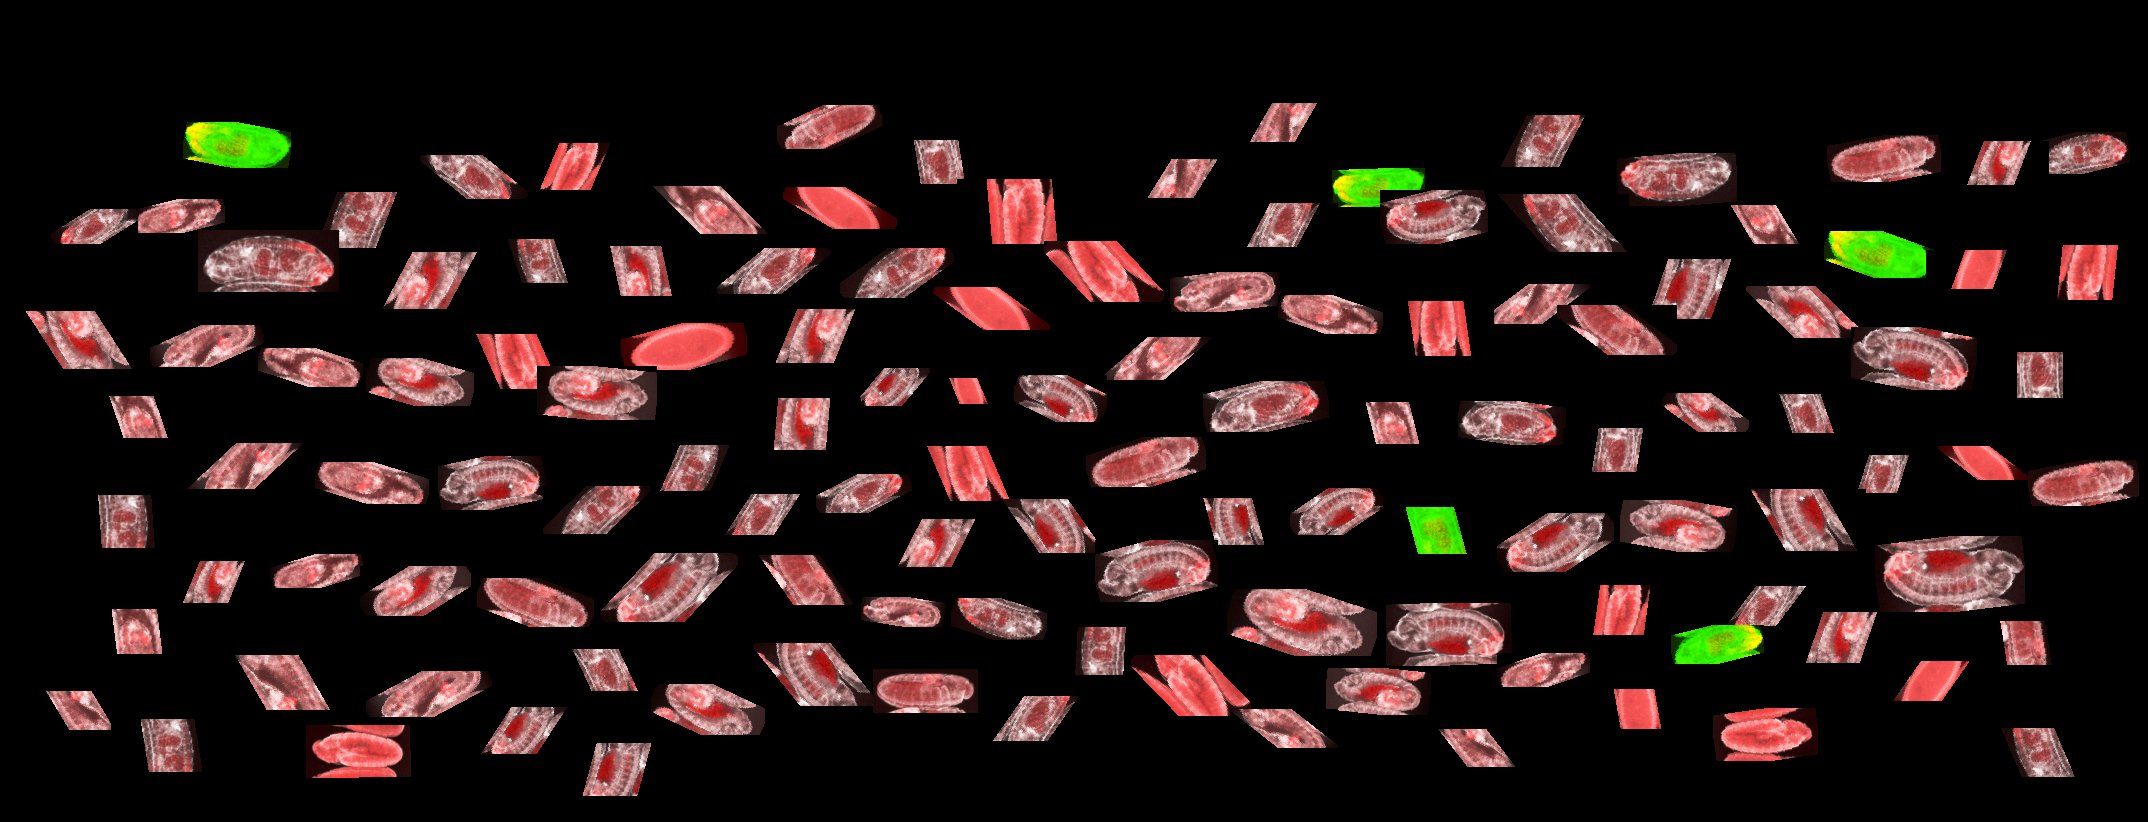
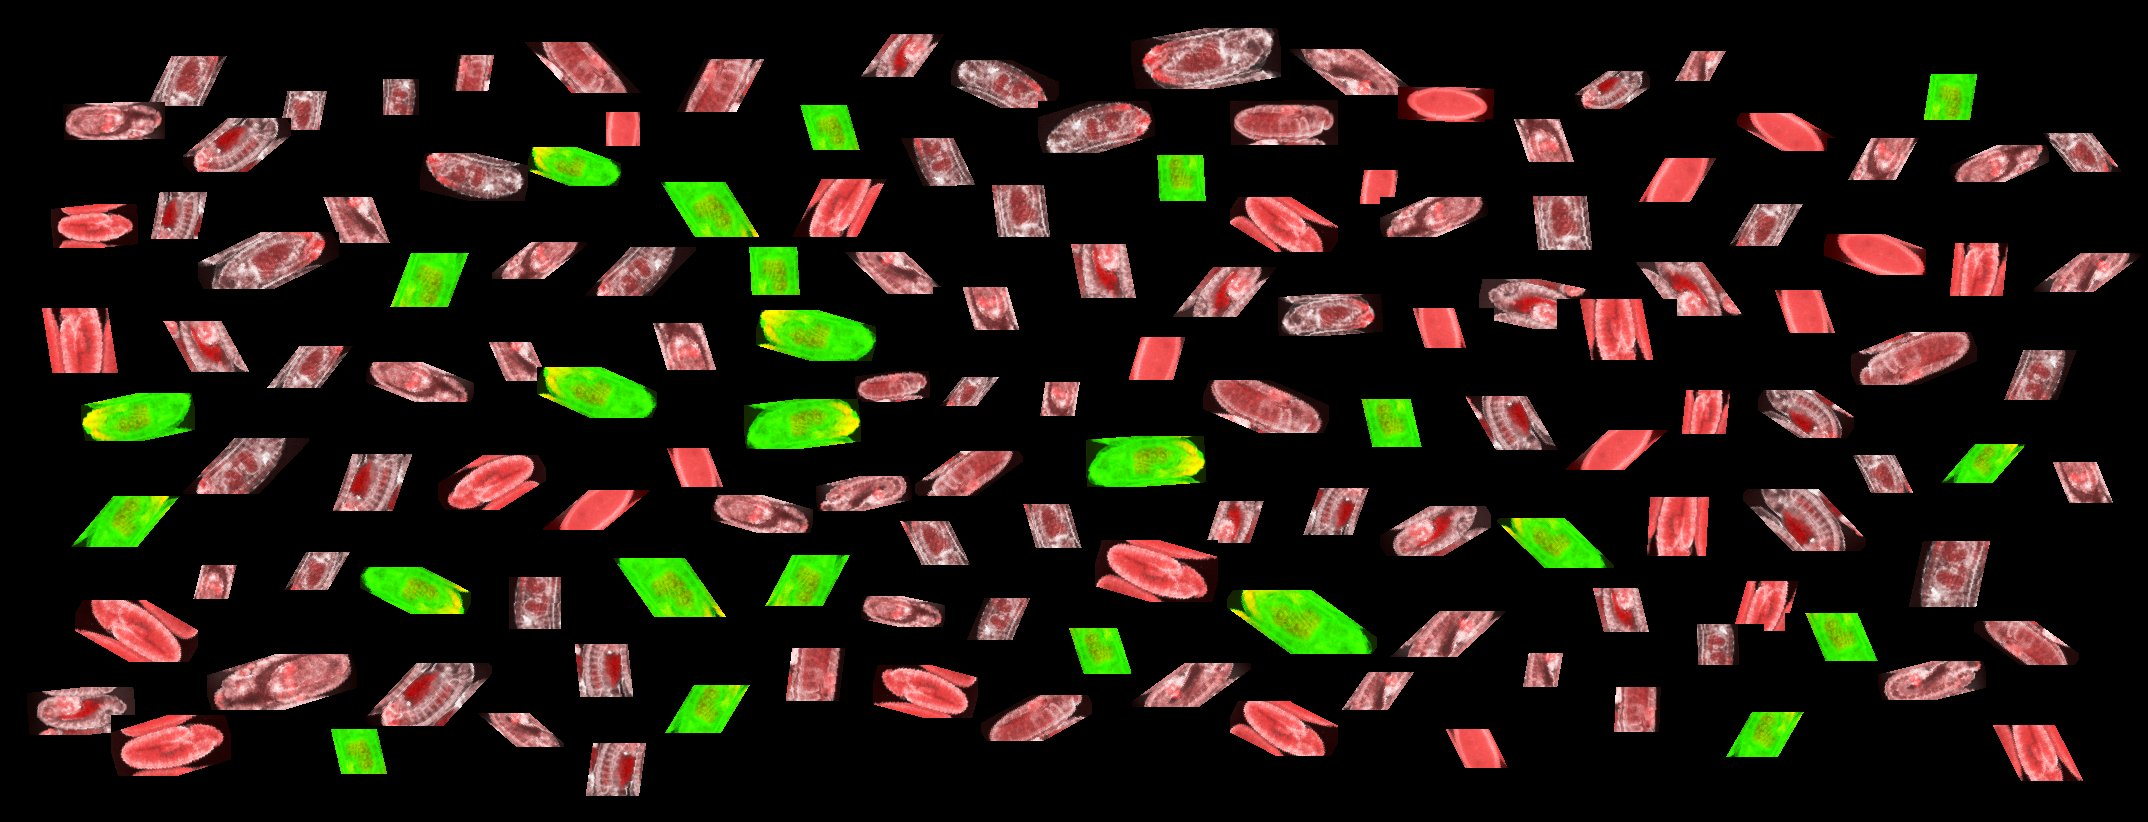
fixed_slide_and_table

diff --git a/embryo_map_001.html b/embryo_map_001.html
@@ -1,143 +1,143 @@
 File,x,y,rot
-stg12,855,38,115
-wt_stg16_ecad_AbdB_RGB_0.25,1131,26,343
-wt_stg13_ecad_AbdB_10x,1659,45,99
-wt_stg12_ecad_AbdB_10x,657,57,347
-wt_stg16_ecad_AbdB_RGB_0.25,522,41,102
-wt_stg12_ecad_AbdB_10x,1290,43,209
-wt_stg11_ecad_AbdB_10x,1575,74,159
-wt_stg11_ecad_AbdB_10x,951,61,136
-wt_stg15_ecad_AbdB_10x,429,56,54
-stg11,126,58,165
-wt_stg16_ecad_AbdB_10x,360,79,166
-wt_stg13_ecad_AbdB_10x,1398,81,21
-wt_stg10_ecad_AbdB_10x,1896,70,101
-stg11,1038,106,12
-stg11,255,93,100
-wt_stg16_ecad_AbdB_RGB_0.25,576,109,110
-wt_stg15_ecad_AbdB_10x,63,101,152
-stg12,1230,103,120
-wt_stg16_ecad_AbdB_RGB_0.25,1737,110,72
-wt_stg16_ecad_AbdB_RGB_0.25,183,122,11
-wt_stg11_ecad_AbdB_10x,777,105,155
-wt_stg16_ecad_AbdB_10x,1485,115,117
-wt_stg16_ecad_AbdB_10x,2034,132,166
-wt_stg15_ecad_AbdB_10x,885,140,261
-wt_stg12_ecad_AbdB_10x,1950,141,111
-stg12,1128,159,302
-wt_stg11_ecad_AbdB_10x,1827,135,349
-wt_stg10_ecad_AbdB_10x,528,143,293
-wt_stg15_ecad_AbdB_10x,420,155,219
-wt_stg16_ecad_AbdB_RGB_0.25,1332,168,358
-wt_stg16_ecad_AbdB_10x,1617,153,355
-stg11,132,199,346
-stg11,645,186,225
-wt_stg16_ecad_AbdB_10x,294,192,111
-wt_stg10_ecad_AbdB_10x,957,179,265
-stg5,783,187,31
-wt_stg13_ecad_AbdB_10x,1380,190,346
-wt_stg15_ecad_AbdB_10x,51,209,328
-wt_stg16_ecad_AbdB_10x,1497,194,48
-stg11,1713,205,59
-wt_stg15_ecad_AbdB_10x,1230,203,118
-wt_stg16_ecad_AbdB_10x,198,230,180
-wt_stg16_ecad_AbdB_10x,489,239,72
-wt_stg10_ecad_AbdB_10x,1044,241,47
-wt_stg12_ecad_AbdB_10x,585,246,258
-wt_stg16_ecad_AbdB_RGB_0.25,1824,231,20
-stg5,1926,250,290
-wt_stg15_ecad_AbdB_10x,717,248,141
-wt_stg10_ecad_AbdB_10x,2034,245,96
-wt_stg16_ecad_AbdB_10x,840,248,144
-wt_stg12_ecad_AbdB_10x,366,252,298
-wt_stg13_ecad_AbdB_10x,1629,259,289
-stg12,1170,272,173
-stg11,1278,295,19
-stg12,1479,284,323
-stg5,933,287,36
-wt_stg12_ecad_AbdB_10x,1746,286,224
-wt_stg11_ecad_AbdB_10x,1557,305,37
-wt_stg10_ecad_AbdB_10x,1386,301,82
-wt_stg12_ecad_AbdB_10x,15,311,57
-stg12,150,325,156
-stg5,621,323,345
-wt_stg12_ecad_AbdB_10x,756,309,112
-stg11,258,348,198
-wt_stg13_ecad_AbdB_10x,1851,327,191
-wt_stg10_ecad_AbdB_10x,465,334,66
-stg11,1098,337,139
-wt_stg15_ecad_AbdB_10x,1983,352,90
-wt_stg12_ecad_AbdB_10x,366,358,16
-wt_stg13_ecad_AbdB_10x,855,368,310
-wt_stg12_ecad_AbdB_10x,537,366,6
-wt_stg13_ecad_AbdB_10x,1014,375,206
-wt_stg15_ecad_AbdB_10x,1203,381,167
-wt_stg12_ecad_AbdB_10x,1662,393,36
-stg5,933,378,68
-wt_stg15_ecad_AbdB_10x,1458,401,188
-stg11,81,396,251
-stg11,1335,402,256
-wt_stg15_ecad_AbdB_10x,1758,394,251
-wt_stg12_ecad_AbdB_10x,744,398,95
-wt_stg15_ecad_AbdB_10x,1563,428,279
-stg5,1938,446,38
-wt_stg16_ecad_AbdB_10x,642,445,293
-stg12,183,443,137
-wt_stg15_ecad_AbdB_10x,1836,455,288
-wt_stg11_ecad_AbdB_10x,1086,437,342
-wt_stg13_ecad_AbdB_10x,438,456,168
-stg11,315,462,17
-wt_stg11_ecad_AbdB_10x,2028,460,349
-wt_stg10_ecad_AbdB_10x,915,446,67
-wt_stg15_ecad_AbdB_10x,816,474,153
-wt_stg13_ecad_AbdB_10x,1290,488,146
-wt_stg15_ecad_AbdB_10x,711,494,303
-wt_stg16_ecad_AbdB_10x,543,486,136
-wt_stg13_ecad_AbdB_10x,1188,498,75
-wt_stg13_ecad_AbdB_10x,999,499,235
-wt_stg13_ecad_AbdB_10x,1743,489,60
-wt_stg12_ecad_AbdB_10x,1620,500,190
-wt_stg16_ecad_AbdB_10x,66,495,266
-wt_stg16_ecad_AbdB_RGB_0.25,1380,507,255
-wt_stg13_ecad_AbdB_10x,1497,513,327
-wt_stg12_ecad_AbdB_10x,882,519,297
-stg11,270,554,343
-wt_stg13_ecad_AbdB_10x,1095,540,165
-wt_stg12_ecad_AbdB_10x,168,561,112
-wt_stg13_ecad_AbdB_10x,1875,536,353
-wt_stg13_ecad_AbdB_10x,600,553,313
-wt_stg12_ecad_AbdB_10x,360,566,328
-wt_stg11_ecad_AbdB_10x,747,555,55
-wt_stg11_ecad_AbdB_10x,477,578,21
-wt_stg15_ecad_AbdB_10x,1716,586,307
-wt_stg10_ecad_AbdB_10x,1572,585,278
-stg12,861,597,189
-wt_stg16_ecad_AbdB_10x,951,598,18
-wt_stg12_ecad_AbdB_10x,1227,589,18
-wt_stg12_ecad_AbdB_10x,1785,612,109
-stg11,75,609,263
-wt_stg13_ecad_AbdB_10x,1386,603,178
-wt_stg16_ecad_AbdB_10x,1047,627,93
-wt_stg16_ecad_AbdB_RGB_0.25,1671,625,166
-wt_stg11_ecad_AbdB_10x,1974,621,81
-stg11,1497,653,341
-wt_stg15_ecad_AbdB_10x,552,649,245
-wt_stg10_ecad_AbdB_10x,1131,655,226
-stg12,207,655,240
-wt_stg13_ecad_AbdB_10x,753,643,51
-stg5,1878,661,125
-wt_stg12_ecad_AbdB_10x,1326,668,186
-stg12,366,671,152
-wt_stg12_ecad_AbdB_10x,651,684,25
-stg12,27,691,59
-wt_stg11_ecad_AbdB_10x,873,669,0
-stg5,1584,689,80
-wt_stg15_ecad_AbdB_10x,981,696,125
-wt_stg13_ecad_AbdB_10x,477,707,303
-wt_stg10_ecad_AbdB_10x,1713,708,352
-wt_stg16_ecad_AbdB_10x,111,719,261
-stg12,1230,709,218
-stg12,1425,729,52
-wt_stg10_ecad_AbdB_10x,306,725,179
-wt_stg16_ecad_AbdB_10x,1983,728,67
-wt_stg13_ecad_AbdB_10x,564,743,285
+wt_stg12_ecad_AbdB_10x,855,34,126
+wt_stg15_ecad_AbdB_10x,1131,28,350
+stg12,1659,51,119
+wt_stg11_ecad_AbdB_10x,657,59,298
+wt_stg11_ecad_AbdB_10x,522,42,47
+stg12,1290,49,218
+wt_stg13_ecad_AbdB_10x,1575,71,325
+wt_stg16_ecad_AbdB_10x,951,60,205
+wt_stg11_ecad_AbdB_10x,429,55,279
+wt_stg15_ecad_AbdB_10x,126,56,116
+wt_stg16_ecad_AbdB_10x,360,79,271
+stg5,1398,87,183
+wt_stg16_ecad_AbdB_RGB_0.25,1896,74,279
+wt_stg16_ecad_AbdB_10x,1038,101,163
+wt_stg15_ecad_AbdB_10x,255,91,281
+stg5,576,112,271
+stg11,63,102,358
+wt_stg11_ecad_AbdB_10x,1230,100,359
+stg5,1737,113,30
+wt_stg13_ecad_AbdB_10x,183,118,320
+wt_stg16_ecad_AbdB_RGB_0.25,777,105,254
+stg11,1485,119,251
+wt_stg15_ecad_AbdB_10x,2034,133,232
+wt_stg16_ecad_AbdB_10x,885,138,65
+stg11,1950,145,336
+wt_stg16_ecad_AbdB_RGB_0.25,1128,155,87
+stg11,1827,138,119
+wt_stg16_ecad_AbdB_RGB_0.25,528,147,20
+wt_stg16_ecad_AbdB_10x,420,153,13
+stg5,1332,170,278
+stg5,1617,158,301
+wt_stg13_ecad_AbdB_10x,132,192,281
+wt_stg16_ecad_AbdB_RGB_0.25,645,182,238
+stg12,294,197,69
+wt_stg15_ecad_AbdB_10x,957,185,83
+wt_stg10_ecad_AbdB_10x,783,179,117
+stg11,1380,197,157
+wt_stg10_ecad_AbdB_10x,51,204,354
+wt_stg15_ecad_AbdB_10x,1497,196,84
+wt_stg15_ecad_AbdB_10x,1713,204,301
+wt_stg10_ecad_AbdB_10x,1230,197,32
+wt_stg15_ecad_AbdB_10x,198,232,154
+stg11,489,242,142
+wt_stg12_ecad_AbdB_10x,1044,244,79
+wt_stg16_ecad_AbdB_10x,585,247,314
+stg5,1824,234,200
+wt_stg10_ecad_AbdB_10x,1926,243,276
+wt_stg16_ecad_AbdB_RGB_0.25,717,247,267
+stg12,2034,253,143
+stg12,840,252,44
+wt_stg16_ecad_AbdB_RGB_0.25,366,253,291
+wt_stg12_ecad_AbdB_10x,1629,262,233
+wt_stg12_ecad_AbdB_10x,1170,267,129
+wt_stg15_ecad_AbdB_10x,1278,294,176
+wt_stg12_ecad_AbdB_10x,1479,279,192
+stg11,933,287,74
+stg5,1746,290,251
+wt_stg10_ecad_AbdB_10x,1557,299,79
+stg5,1386,308,73
+wt_stg10_ecad_AbdB_10x,15,308,261
+wt_stg12_ecad_AbdB_10x,150,321,61
+stg11,621,323,253
+wt_stg16_ecad_AbdB_RGB_0.25,756,310,16
+wt_stg15_ecad_AbdB_10x,258,346,128
+wt_stg11_ecad_AbdB_10x,1851,332,158
+stg12,465,342,66
+stg5,1098,337,286
+wt_stg16_ecad_AbdB_10x,1983,350,291
+stg11,366,362,22
+wt_stg11_ecad_AbdB_10x,855,371,352
+wt_stg16_ecad_AbdB_RGB_0.25,537,367,24
+stg11,1014,382,99
+wt_stg11_ecad_AbdB_10x,1203,380,23
+wt_stg10_ecad_AbdB_10x,1662,390,276
+wt_stg15_ecad_AbdB_10x,933,377,308
+wt_stg13_ecad_AbdB_10x,1458,396,60
+wt_stg16_ecad_AbdB_RGB_0.25,81,393,348
+wt_stg16_ecad_AbdB_RGB_0.25,1335,399,77
+wt_stg13_ecad_AbdB_10x,1758,390,214
+wt_stg16_ecad_AbdB_RGB_0.25,744,399,173
+stg5,1563,430,138
+wt_stg16_ecad_AbdB_RGB_0.25,1938,444,131
+stg5,642,448,249
+wt_stg16_ecad_AbdB_10x,183,438,314
+wt_stg15_ecad_AbdB_10x,1836,455,244
+wt_stg16_ecad_AbdB_RGB_0.25,1086,436,176
+wt_stg10_ecad_AbdB_10x,438,455,148
+wt_stg13_ecad_AbdB_10x,315,454,289
+stg11,2028,462,68
+wt_stg11_ecad_AbdB_10x,915,451,144
+stg12,816,476,167
+wt_stg13_ecad_AbdB_10x,1290,488,109
+stg11,711,495,16
+stg5,543,490,140
+wt_stg12_ecad_AbdB_10x,1188,501,288
+wt_stg15_ecad_AbdB_10x,999,504,74
+wt_stg13_ecad_AbdB_10x,1743,489,226
+wt_stg10_ecad_AbdB_10x,1620,497,93
+wt_stg16_ecad_AbdB_RGB_0.25,66,496,130
+wt_stg12_ecad_AbdB_10x,1380,506,329
+wt_stg16_ecad_AbdB_RGB_0.25,1497,518,44
+wt_stg15_ecad_AbdB_10x,882,521,64
+wt_stg15_ecad_AbdB_10x,270,552,300
+wt_stg10_ecad_AbdB_10x,1095,540,16
+stg11,168,565,284
+wt_stg16_ecad_AbdB_10x,1875,541,102
+wt_stg16_ecad_AbdB_RGB_0.25,600,558,235
+wt_stg16_ecad_AbdB_RGB_0.25,360,567,207
+wt_stg16_ecad_AbdB_RGB_0.25,747,555,298
+wt_stg16_ecad_AbdB_10x,477,577,91
+wt_stg10_ecad_AbdB_10x,1716,581,286
+wt_stg12_ecad_AbdB_10x,1572,588,76
+stg11,861,596,12
+wt_stg16_ecad_AbdB_10x,951,598,113
+wt_stg16_ecad_AbdB_RGB_0.25,1227,590,36
+wt_stg16_ecad_AbdB_RGB_0.25,1785,613,67
+wt_stg10_ecad_AbdB_10x,75,600,210
+stg12,1386,611,137
+wt_stg16_ecad_AbdB_RGB_0.25,1047,628,72
+wt_stg16_ecad_AbdB_10x,1671,624,268
+wt_stg11_ecad_AbdB_10x,1974,621,216
+stg12,1497,653,100
+wt_stg13_ecad_AbdB_10x,552,644,84
+stg12,1131,663,324
+stg11,207,654,163
+wt_stg11_ecad_AbdB_10x,753,648,97
+stg12,1878,661,346
+stg12,1326,672,125
+wt_stg13_ecad_AbdB_10x,366,663,313
+wt_stg16_ecad_AbdB_RGB_0.25,651,685,121
+wt_stg12_ecad_AbdB_10x,27,687,354
+wt_stg10_ecad_AbdB_10x,873,665,195
+wt_stg11_ecad_AbdB_10x,1584,687,92
+wt_stg11_ecad_AbdB_10x,981,695,331
+stg12,477,713,41
+wt_stg16_ecad_AbdB_RGB_0.25,1713,712,120
+wt_stg10_ecad_AbdB_10x,111,715,343
+wt_stg10_ecad_AbdB_10x,1230,701,27
+stg5,1425,729,64
+wt_stg16_ecad_AbdB_RGB_0.25,306,729,257
+wt_stg10_ecad_AbdB_10x,1983,725,63
+wt_stg13_ecad_AbdB_10x,564,743,98

diff --git a/index.html b/index.html
@@ -90,7 +90,7 @@ function clickEmbryo(e)
        dist = Math.sqrt(dsqrd);
        dists.push(dist);
        if (i==0) {
-         msgString += xval+","+yval+","+dx+","+dy+" dsqrd="+dsqrd+" dist="+dist;
+//         msgString += xval+","+yval+","+dx+","+dy+" dsqrd="+dsqrd+" dist="+dist;
 //         msgString += "xval="+String(xval)+" = "+String(dist)+"\n";
        }
        if (dist<minDist) {
@@ -197,8 +197,8 @@ function clickEmbryo(e)
 <div class="img-zoom-container">
   <table>
     <tr>
-      <td>
-  <img id="myimage" src="images/slide_001.jpg" width="600" height="240">
+      <td colspan="2">
+  <img id="myimage" src="images/slide_001.jpg" width="1074" height="411">
 </td>
 </tr>
 <tr>
@@ -210,7 +210,7 @@ function clickEmbryo(e)
 </td>
 </tr>
 <tr>
-  <td>
+  <td colspan="2"> 
   <p id="mymsg">default mmessage</p>
 </td>
 </tr>
